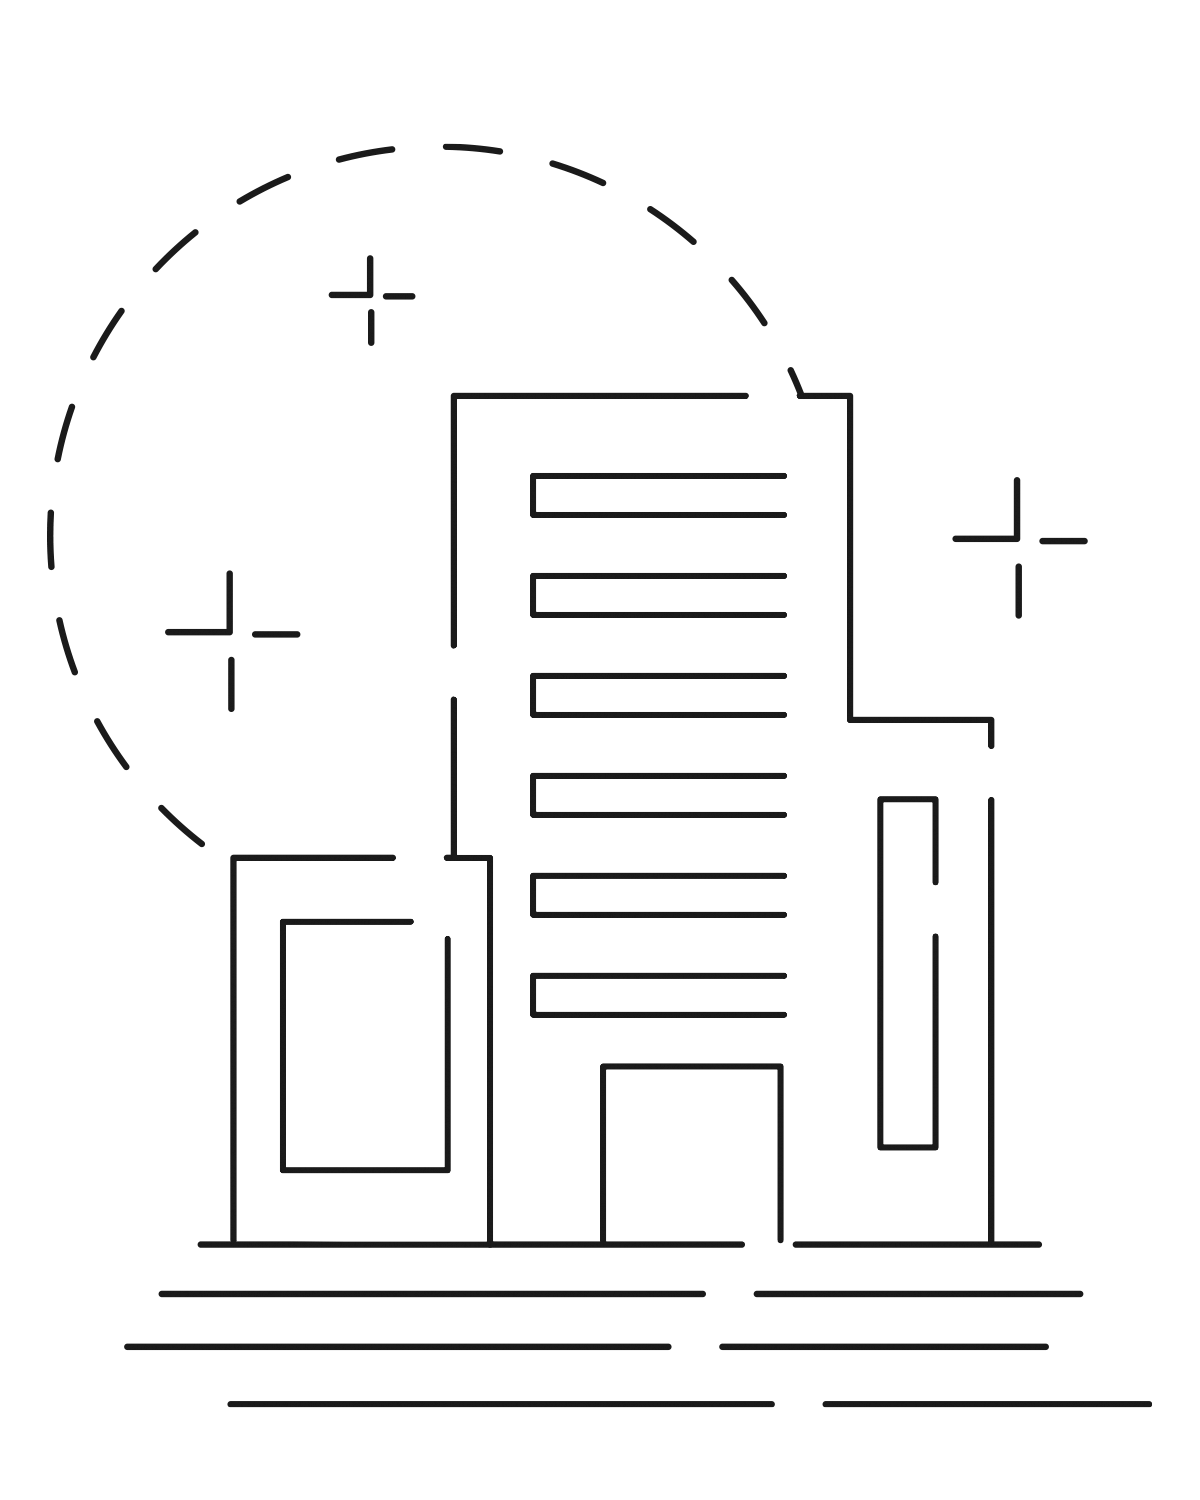
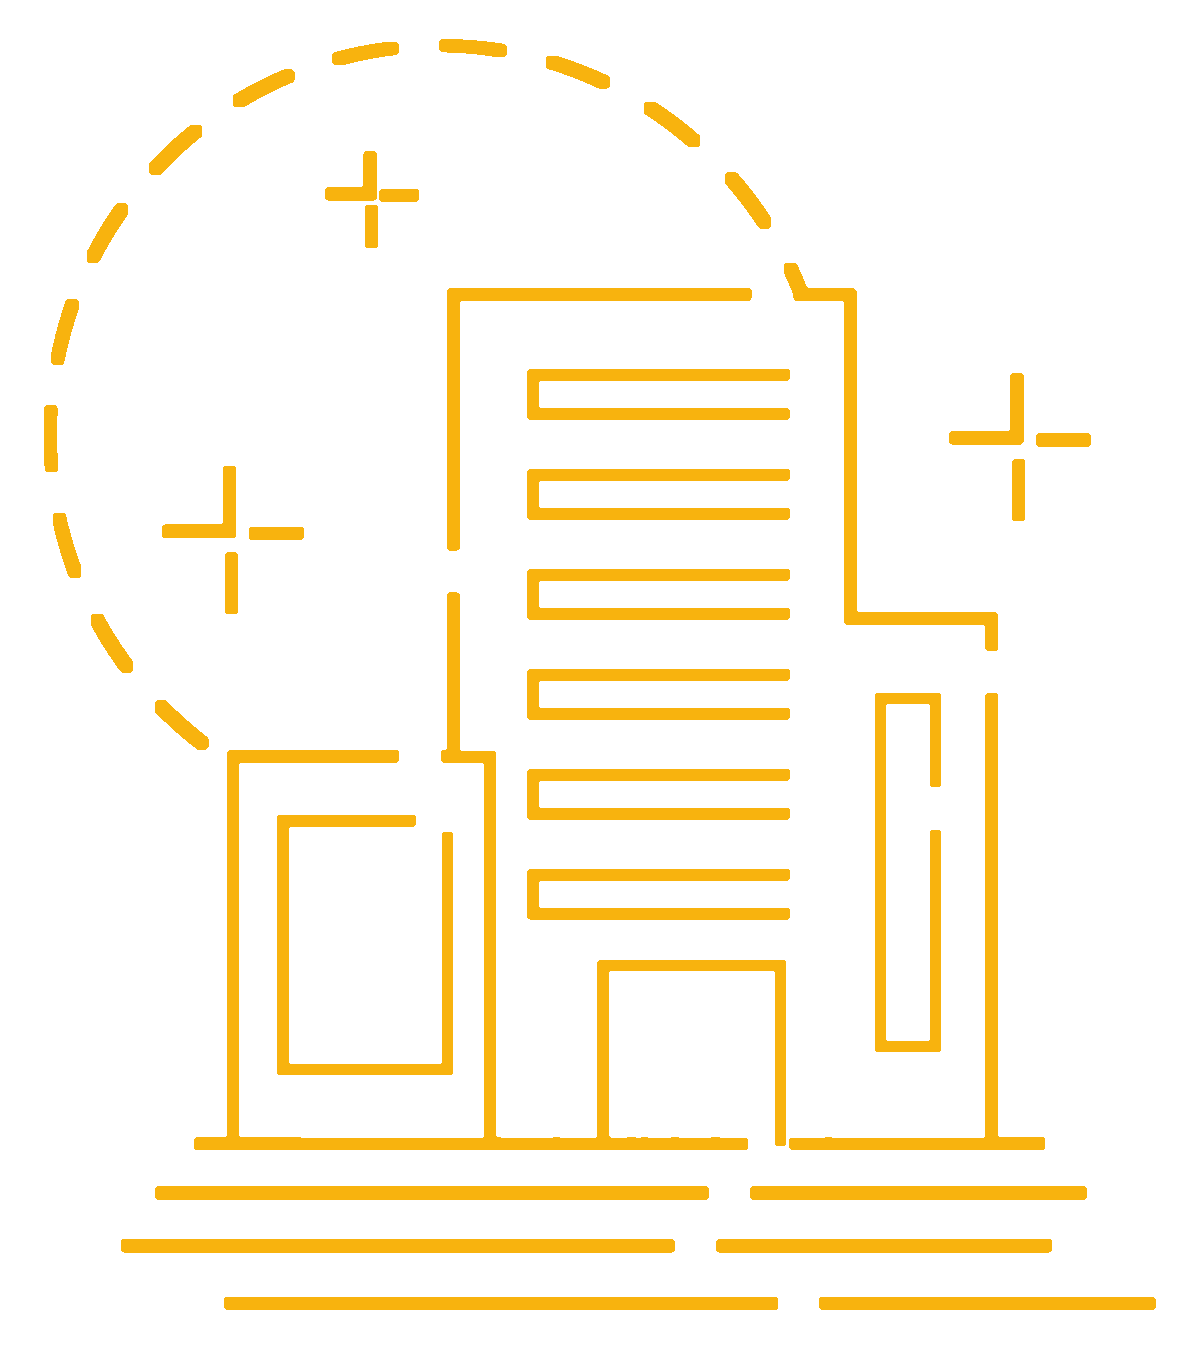
イラスト変更

diff --git a/css/style.css b/css/style.css
@@ -2533,7 +2533,7 @@ color: #fff;
 }
 
 .p-index-feature__image{
-  width: 140px;
+  width: 100px;
   height: auto;
   margin-inline: auto;
 }
